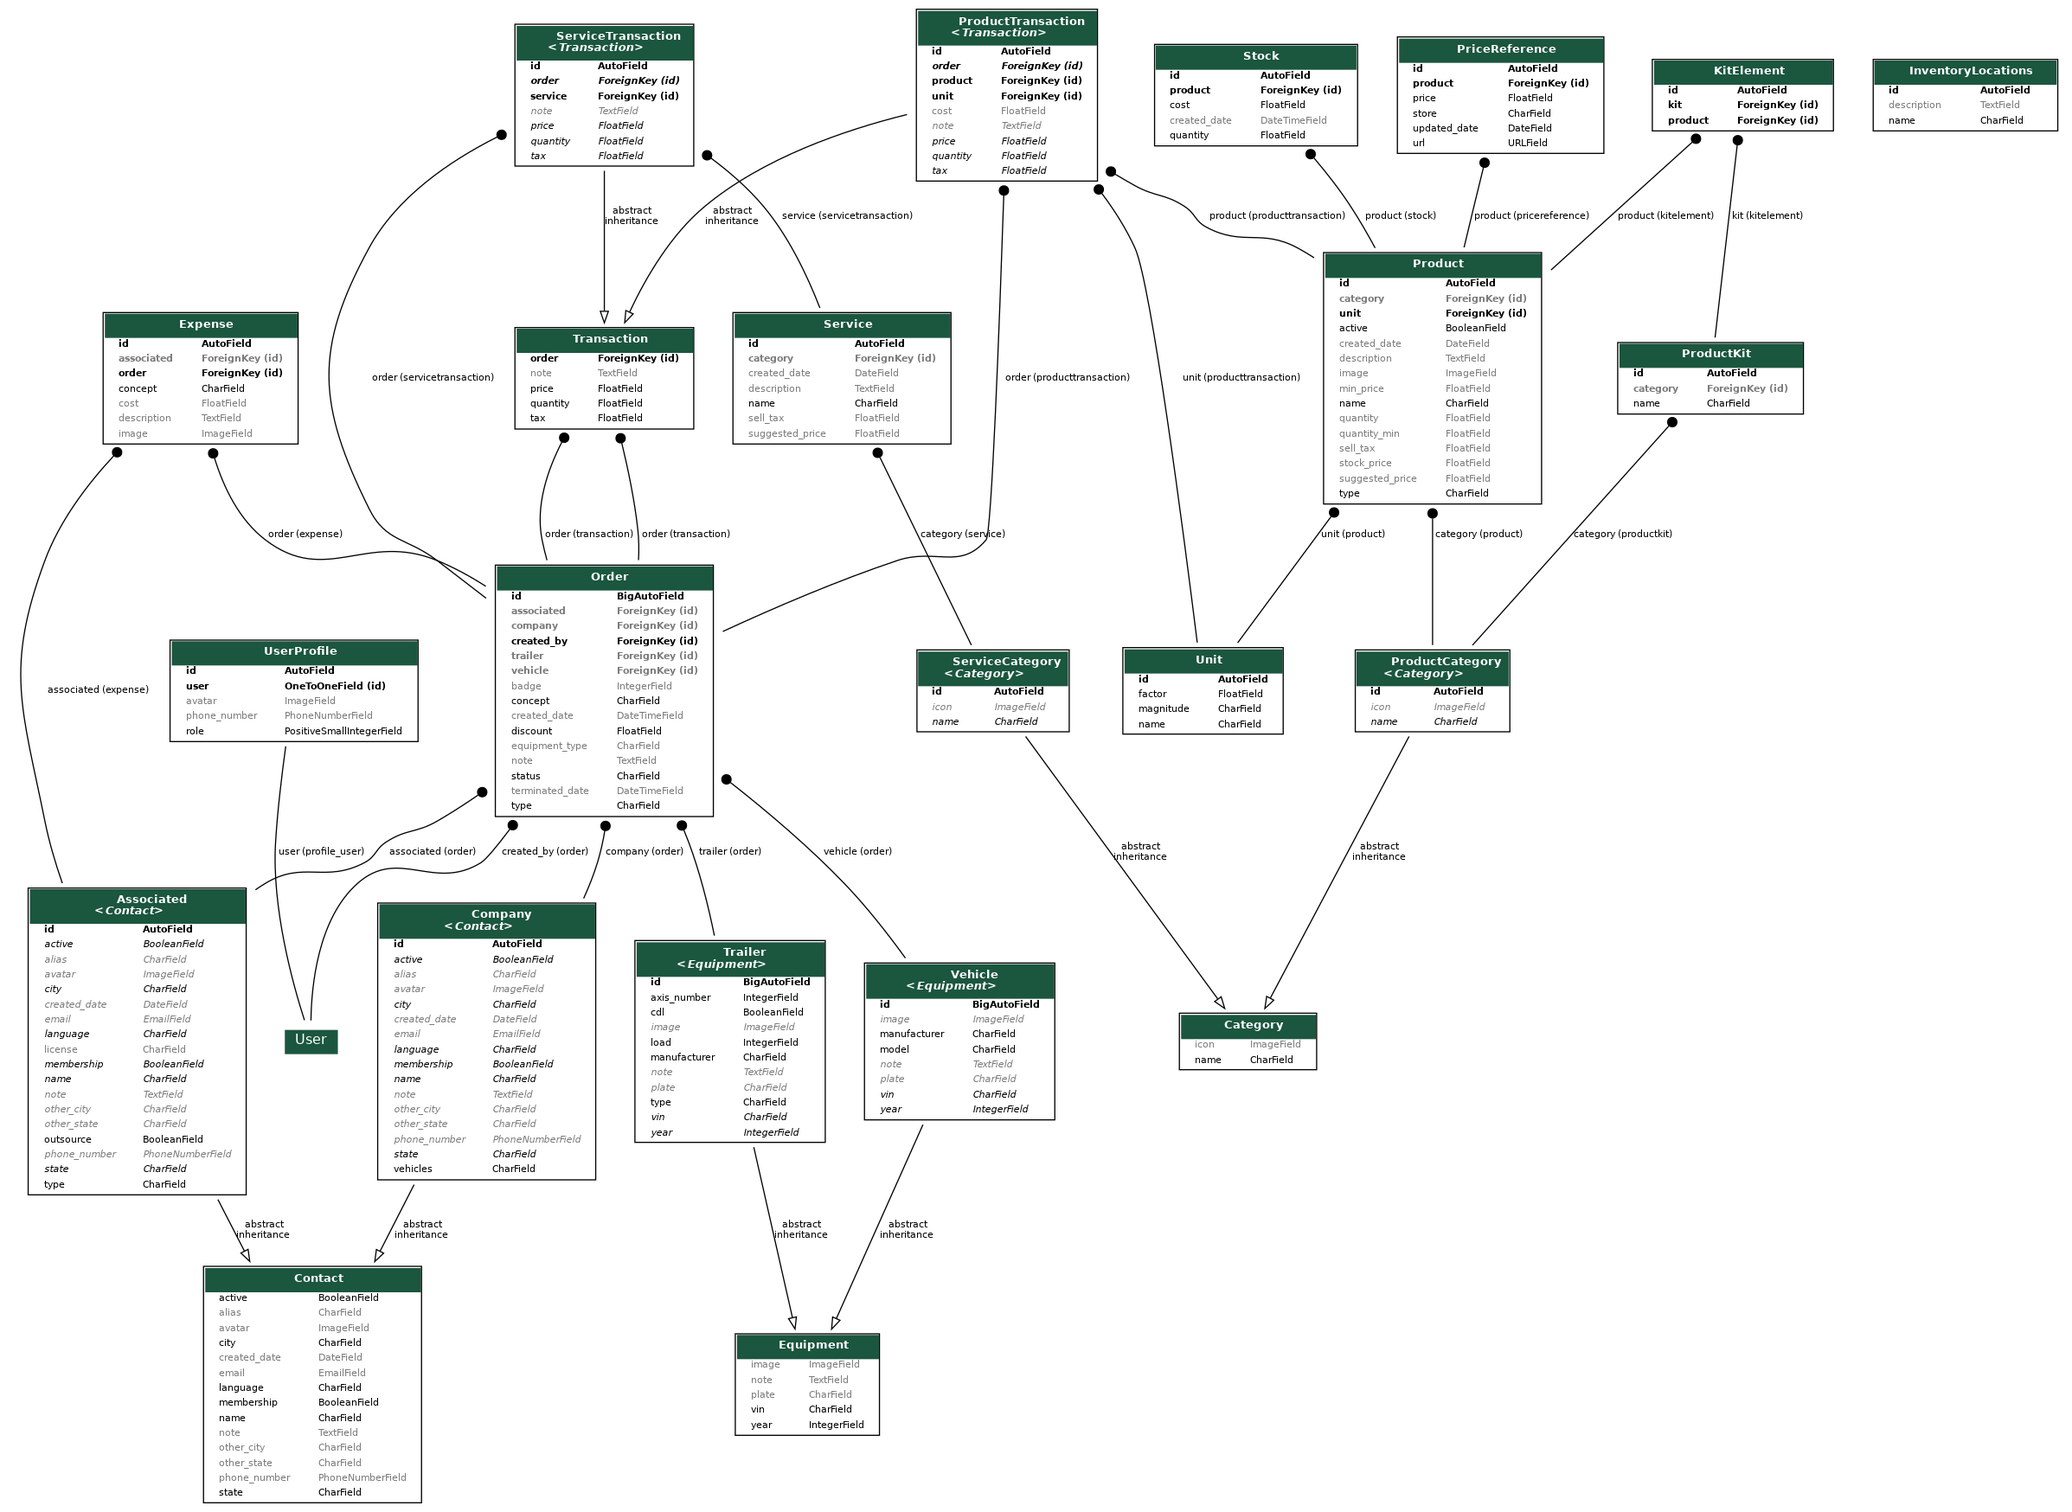
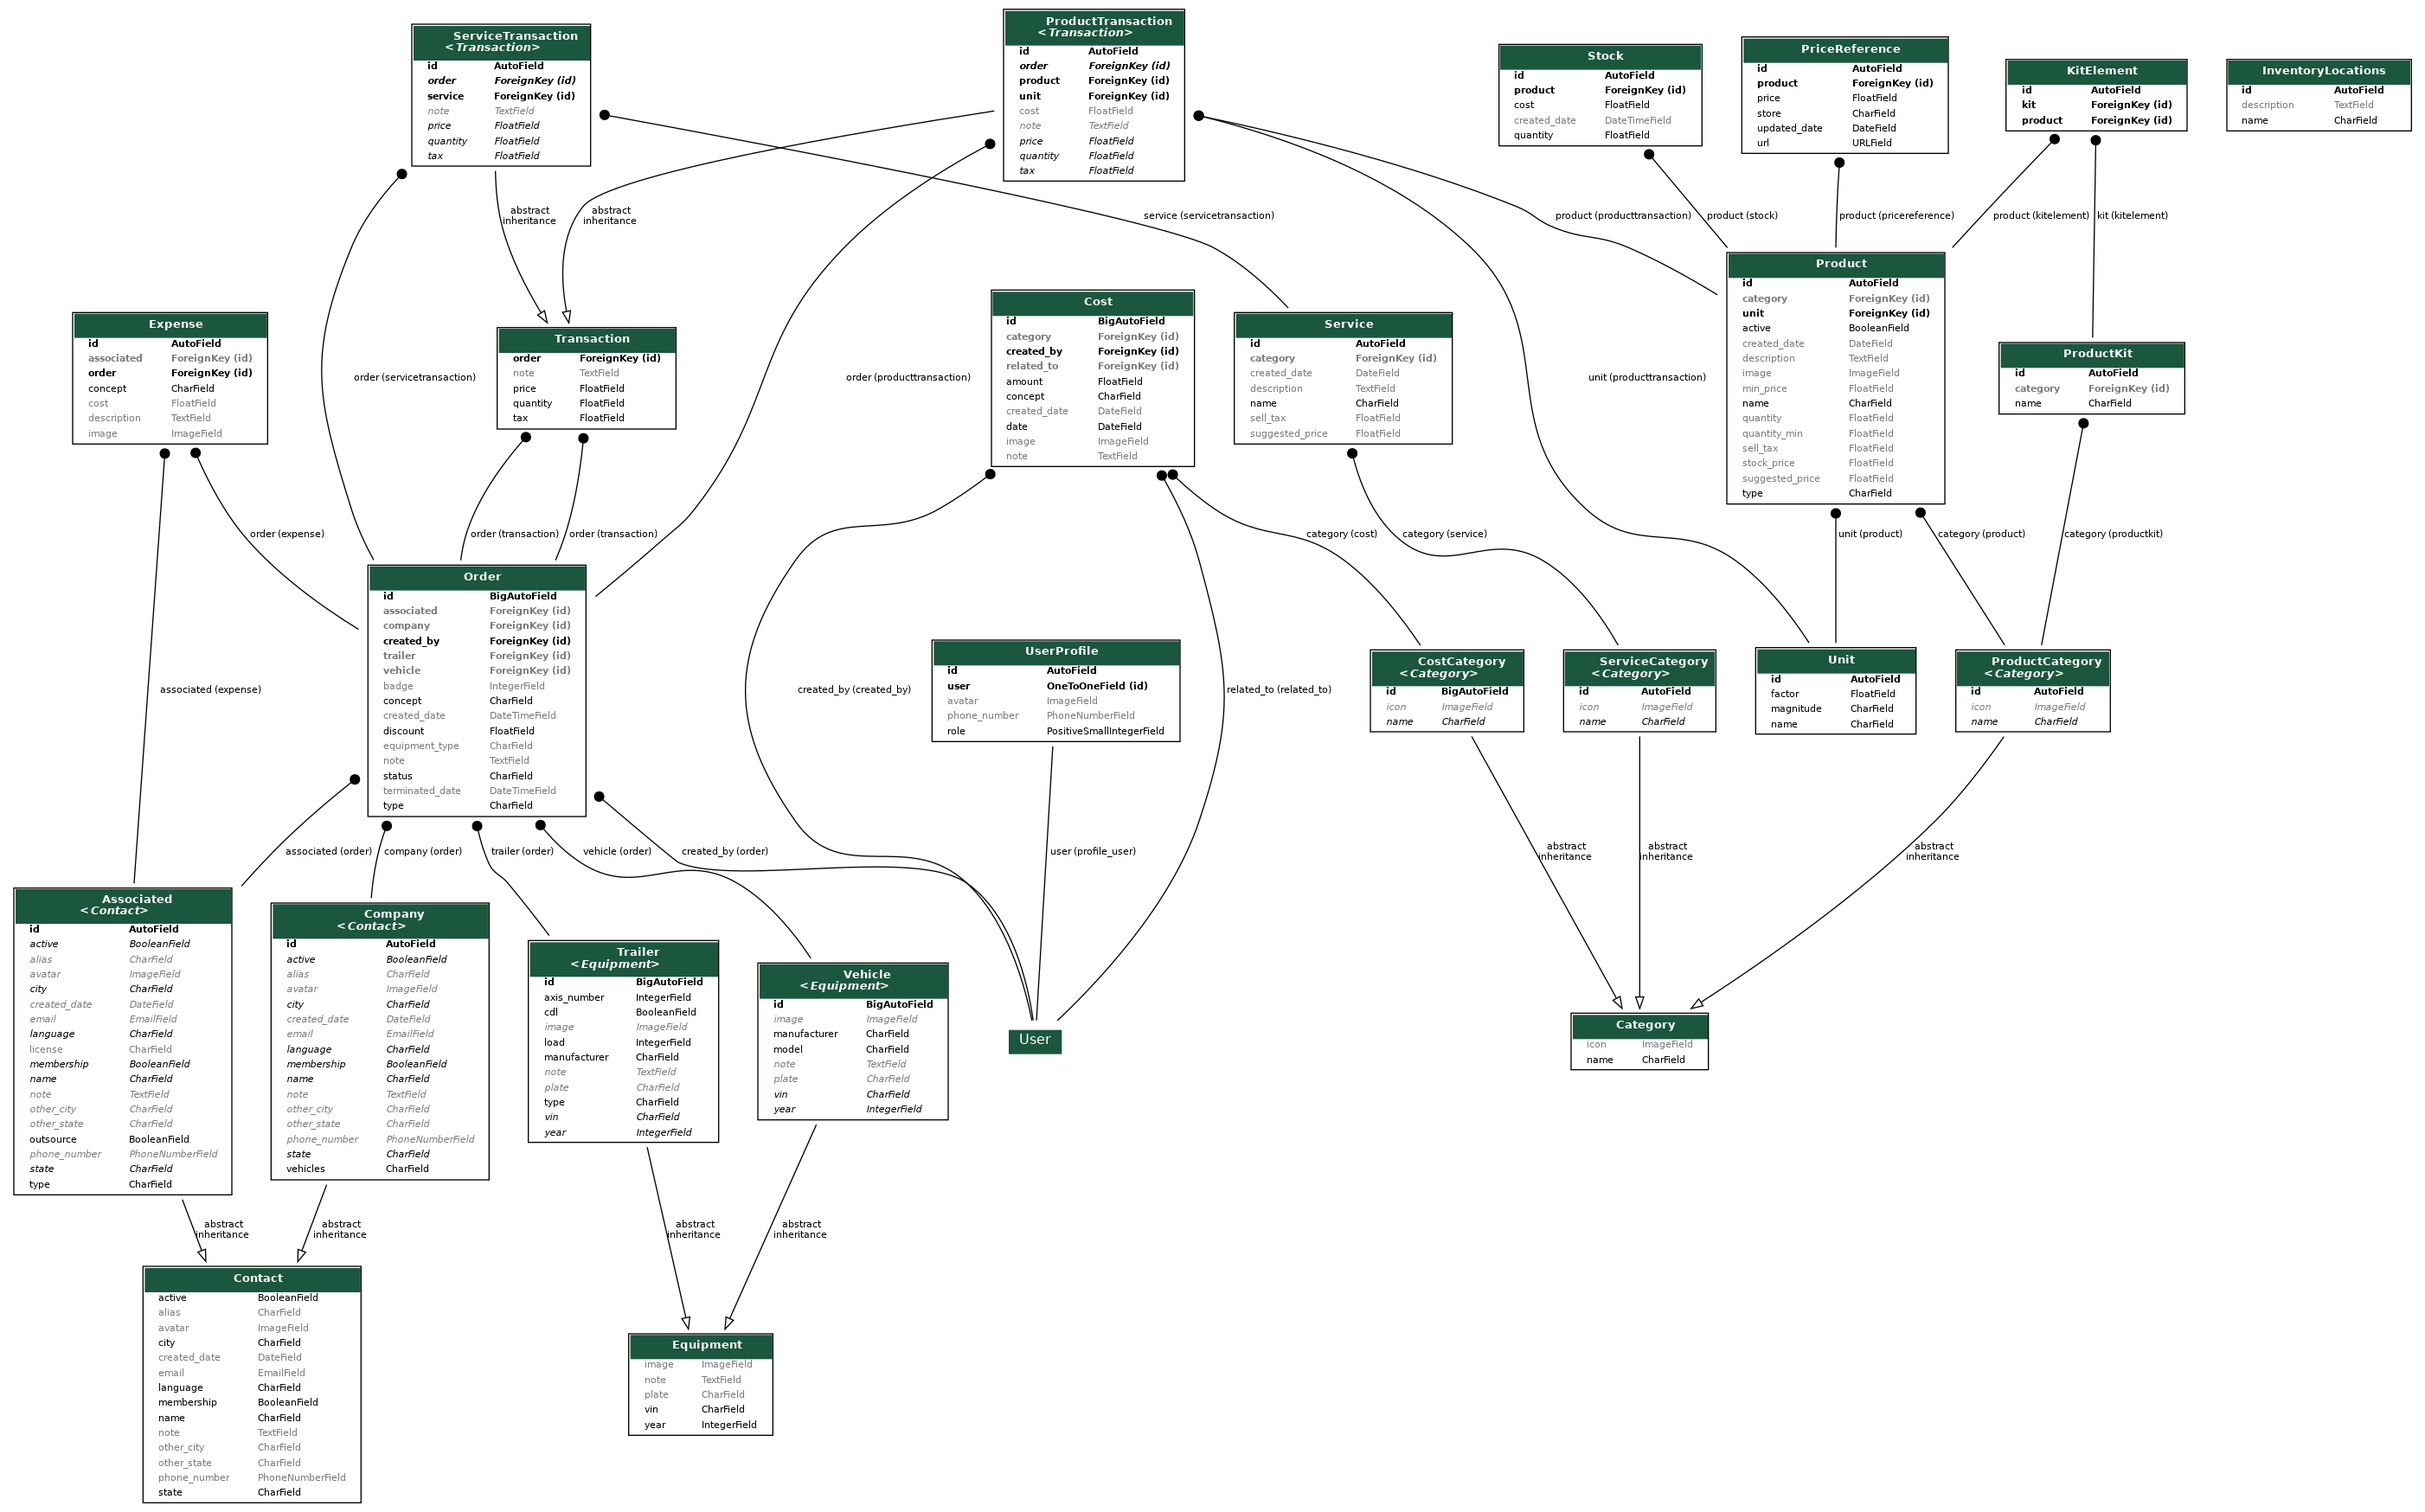
Adding Costs models to README

diff --git a/README.md b/README.md
@@ -47,6 +47,11 @@ The **Equipment** model is the abstract model that defines the field that are co
 
 ![Equipment UML diagram](https://raw.githubusercontent.com/vladimir1284/gestor/master/equipment_models.png)
 
+### Costs
+The **Cost** model is the main model in this application. Costs are discounted to compute the profit in a 
+period. The **CostCategory** is used for filtering in the user interface.
+
+![Costs UML diagram](https://raw.githubusercontent.com/vladimir1284/gestor/master/costs_models.png)
 
 ### Complete scheme
 This is a complete representation of the models and their relations.
